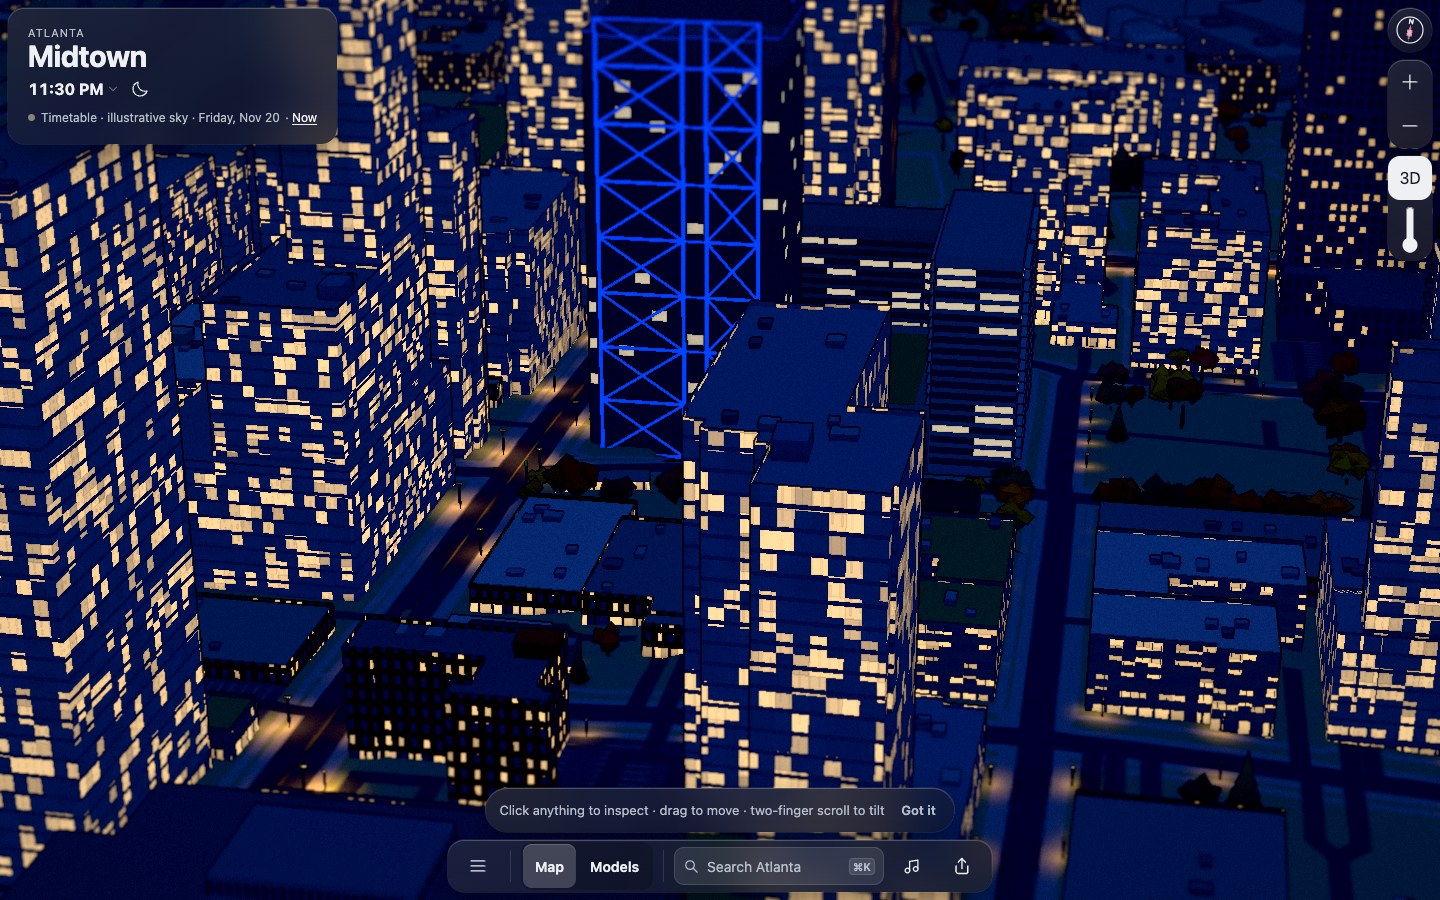
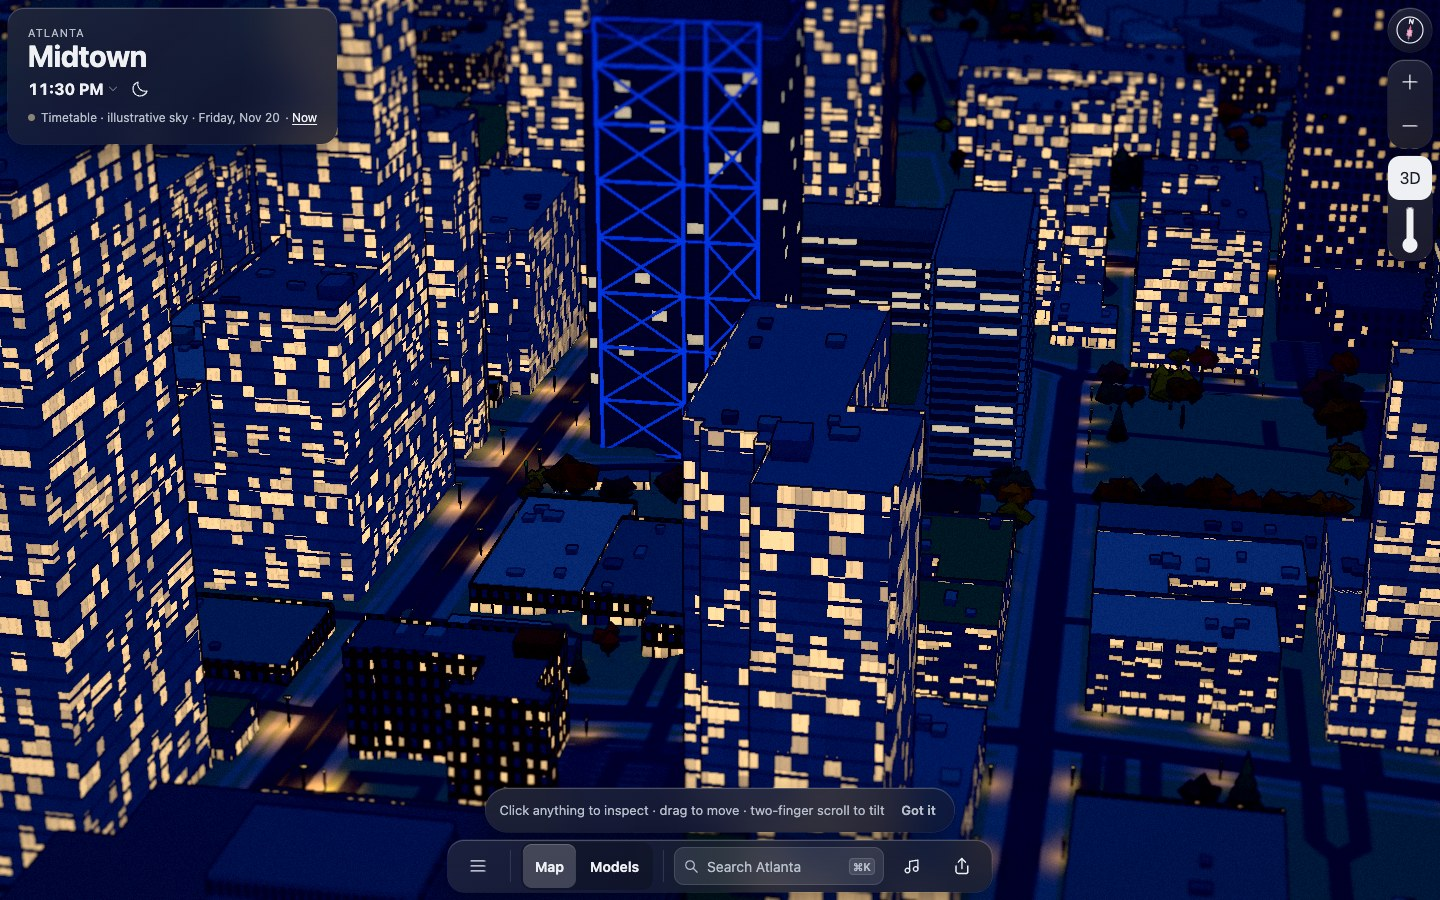
1105 West Peachtree: tone the cobalt frame down to window brightness, per the night photo

Changed region(s): [[0.4062, 0.0, 0.5312, 0.4978]]

diff --git a/web/src/city/1105-west-peachtree.test.ts b/web/src/city/1105-west-peachtree.test.ts
@@ -45,6 +45,6 @@ it('stands the blue frame clear of the glass and up to 125 m, inside the landmar
   expect(box.max.z).toBeCloseTo(-3424.6 + 1.4, 1); // south frame off the south glass
   expect(box.min.z).toBeCloseTo(-3478.8 - 1.4, 1); // north frame off the north glass
   result.setNight(1);
-  expect(led.material.emissiveIntensity).toBeCloseTo(0.7);
+  expect(led.material.emissiveIntensity).toBeCloseTo(0.45);
   expect(led.material.emissive.getHexString()).toBe('2f5cff');
 });

diff --git a/web/src/city/1105-west-peachtree.ts b/web/src/city/1105-west-peachtree.ts
@@ -188,7 +188,7 @@ export function create1105WestPeachtree(buildings: VBuilding[], site: VBuilding,
     ...built,
     setNight(night: number) {
       built.setNight(night);
-      ledMesh.material.emissiveIntensity = night * 0.7;
+      ledMesh.material.emissiveIntensity = night * 0.45;
     },
   };
 }

diff --git a/docs/log/ui/1105-west-peachtree/README.md b/docs/log/ui/1105-west-peachtree/README.md
@@ -38,7 +38,7 @@ The podium's secondary exoskeleton is left out: its location along the podium is
 
 ## Lighting
 
-- **Exoskeleton:** the only ordinary-night evidence, the August 2026 SKYDB photo, shows the frame and the crown's top edge lit solid cobalt blue. The model makes that the night state, in its own lit material. The LEDs are programmable, and event colours (Pride, Fourth of July, Falcons) need separate evidence, so they are not modelled. The blue is a separate lit material (same program as the window lamps), set only in `setNight` at 0.7 intensity, which keeps it under clipping.
+- **Exoskeleton:** the only ordinary-night evidence, the August 2026 SKYDB photo, shows the frame and the crown's top edge lit solid cobalt blue. The model makes that the night state, in its own lit material. The LEDs are programmable, and event colours (Pride, Fourth of July, Falcons) need separate evidence, so they are not modelled. The blue is a separate lit material (same program as the window lamps), set only in `setNight` at 0.45 intensity, which keeps it under clipping.
 - **Offices:** about 7% of panes are lit at 23:30. The photo shows a scatter of lit floors.
 - **Hotel and condominium:** about 30% of rooms are lit, the residential and hotel share.
 - All of it is `illustrative` ambient scenery and is not labelled on screen.
